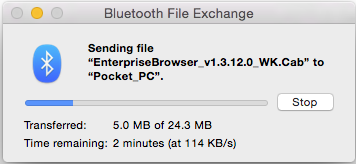
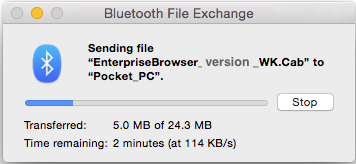
for MC-119429, removed ver. numbers from images; fixed supported-device table images in techdocs

Changed region(s): [[0.5562, 0.3354, 0.7107, 0.4268], [0.0927, 0.7622, 0.1236, 0.7927]]

diff --git a/src/enterprise-browser/1-4/guide/setup/index.md b/src/enterprise-browser/1-4/guide/setup/index.md
@@ -241,7 +241,7 @@ On Windows, this will bring up a window that looks similar to the image below:
 &#53;. If a persistent runtime was installed, perform a cold boot/cleanPS on the device to activate the runtime.
 
 ## Launching the EB App 
-After installation, an Enterprise Browser app icon will appear **in the all-apps section of Android devices** and **in the Main app menu of Windows Mobile/CE**. The first time an Enterprise Browser 1.3 app is launched, it starts with default runtime settings as defined in the Config.xml file on the device. Refer to the [Config.xml Reference guide](/enterprise-browser/1-4/guide/configreference) for complete details.  
+After installation, an Enterprise Browser app icon will appear **in the all-apps section of Android devices** and **in the Main app menu of Windows Mobile/CE**. The first time an Enterprise Browser app is launched, it starts with default runtime settings as defined in the Config.xml file on the device. Refer to the [Config.xml Reference guide](/enterprise-browser/1-4/guide/configreference) for complete details.  
 
 By default, a screen like the one below will appear: 
 

diff --git a/src/enterprise-browser/1-4/guide/configreference/index.md b/src/enterprise-browser/1-4/guide/configreference/index.md
@@ -261,7 +261,7 @@ The default `Config.xml` file for Android is shown below for reference. **Import
 
 ## General
 ### StartPage
-Defines the start page of the Enterprise Browser application displayed at launch. A device-resident file is recommended to avoid connectivity issues on startup. **StartPage entry must be a fully qualified local path using `file://` or URL using `http://`**. For URLs, accepts UTF-8 characters only. Case sensitive. 
+Defines the start page of the Enterprise Browser application displayed at launch. A device-resident file is recommended to avoid connectivity issues on startup. **StartPage entry must be a fully qualified local path using** `file://` **or URL using** `http://`**. For URLs, accepts UTF-8 characters only. Case sensitive. 
 
 **Possible Values**:
 
